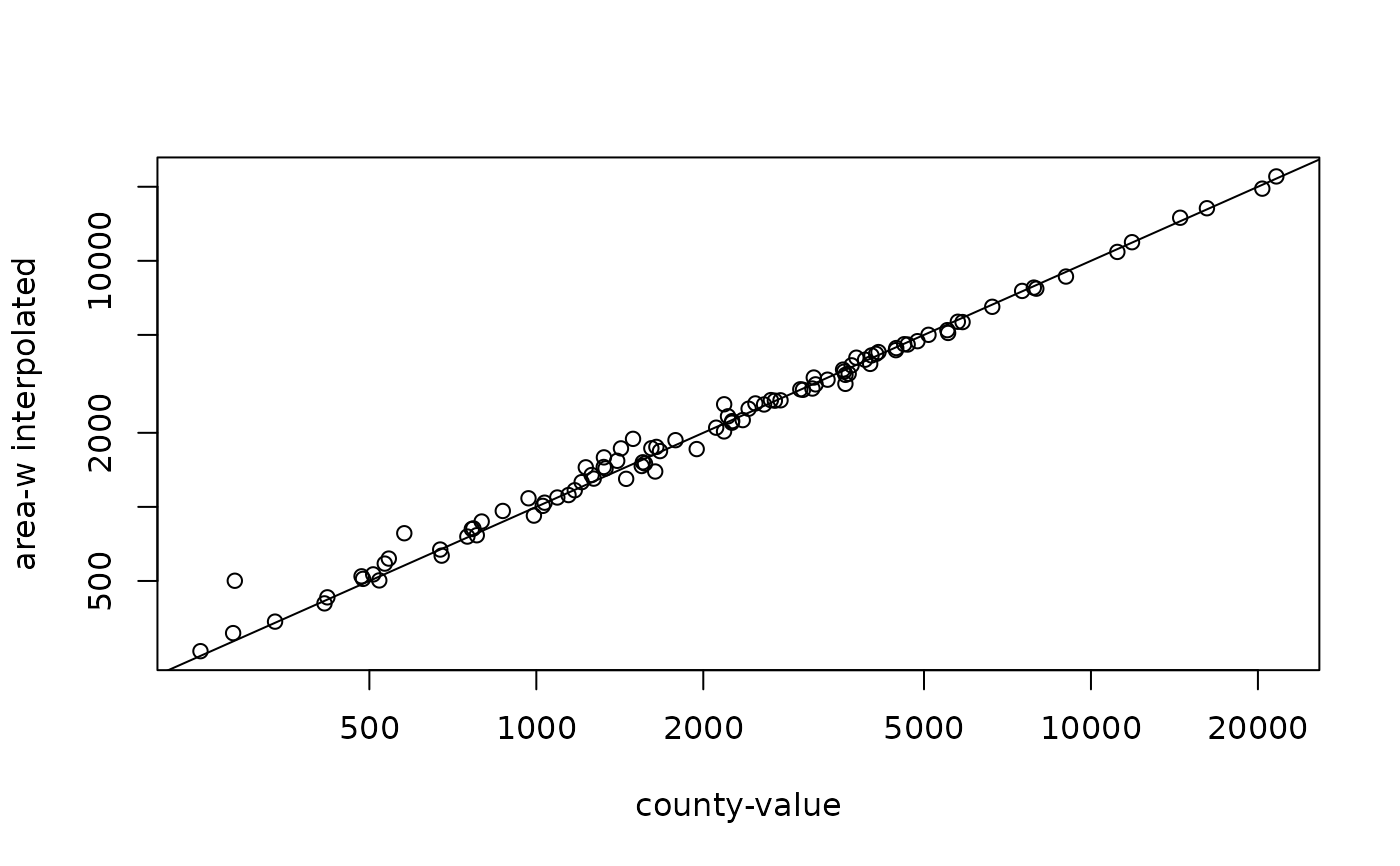
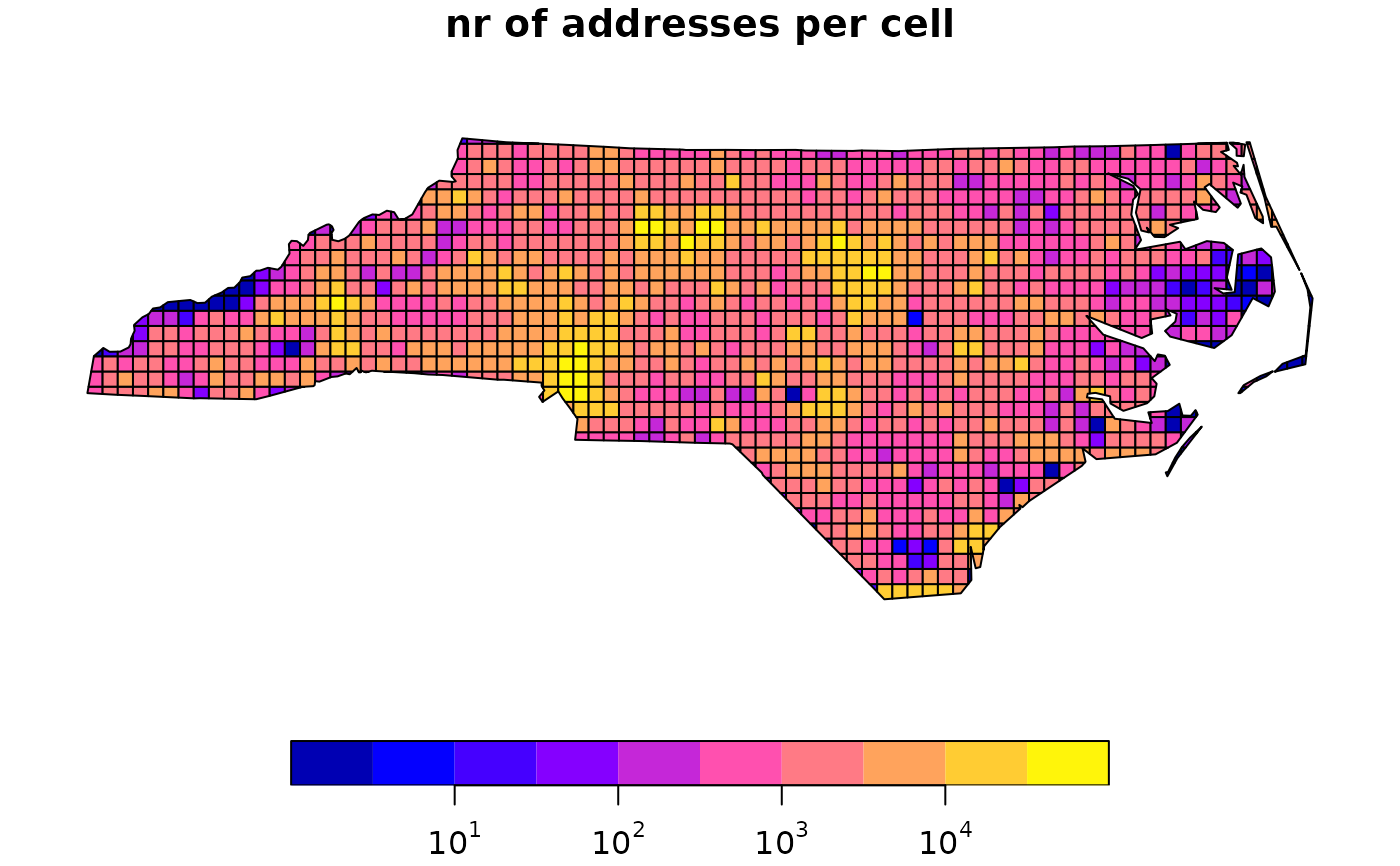
Deploying to gh-pages from @ r-spatial/sf@6a3266f1b46d2cbf7e4272b19c8e42507f74dfdd 🚀

diff --git a/reference/interpolate_aw.html b/reference/interpolate_aw.html
@@ -135,20 +135,25 @@ when <code>FALSE</code> divide by the sum of the source areas.</p></dd>
 <span class="r-in"><span><span class="co"># example Dasymetric mapping:</span></span></span>
 <span class="r-in"><span><span class="co"># load nr of addresses per 10 km grid cell, to proxy population -&gt; birth density:</span></span></span>
 <span class="r-in"><span><span class="va">grd.addr</span> <span class="op">=</span> <span class="fu"><a href="https://rdrr.io/r/base/system.file.html" class="external-link">system.file</a></span><span class="op">(</span><span class="st">"gpkg/grd_addr.gpkg"</span>, package<span class="op">=</span><span class="st">"sf"</span><span class="op">)</span> <span class="op">|&gt;</span> <span class="fu"><a href="st_read.html">read_sf</a></span><span class="op">(</span><span class="op">)</span></span></span>
-<span class="r-in"><span><span class="va">xgrd.addr</span> <span class="op">=</span> <span class="va">grd.addr</span> <span class="co"># copy for plotting</span></span></span>
-<span class="r-in"><span><span class="va">xgrd.addr</span><span class="op">$</span><span class="va">ones</span><span class="op">[</span><span class="va">grd.addr</span><span class="op">$</span><span class="va">ones</span><span class="op">==</span><span class="fl">0</span><span class="op">]</span> <span class="op">=</span> <span class="fl">1</span> <span class="co"># so that logz shows finite values</span></span></span>
-<span class="r-in"><span><span class="fu"><a href="plot.html">plot</a></span><span class="op">(</span><span class="va">xgrd.addr</span>, logz<span class="op">=</span><span class="cn">TRUE</span>, main <span class="op">=</span> <span class="st">"nr of addresses per cell"</span><span class="op">)</span> <span class="co"># log scale</span></span></span>
-<span class="r-plt img"><img src="interpolate_aw-2.png" alt="" width="700" height="433"></span>
 <span class="r-in"><span><span class="va">nc</span> <span class="op">=</span> <span class="fu"><a href="st_transform.html">st_transform</a></span><span class="op">(</span><span class="va">nc</span>, <span class="fu"><a href="st_crs.html">st_crs</a></span><span class="op">(</span><span class="va">grd.addr</span><span class="op">)</span><span class="op">)</span></span></span>
 <span class="r-in"><span><span class="co"># avoid "assumes attributes are constant or uniform over areas" warnings:</span></span></span>
-<span class="r-in"><span><span class="fu"><a href="st_agr.html">st_agr</a></span><span class="op">(</span><span class="va">nc</span><span class="op">)</span> <span class="op">=</span> <span class="fu"><a href="https://rdrr.io/r/base/c.html" class="external-link">c</a></span><span class="op">(</span>BIR74 <span class="op">=</span> <span class="st">"constant"</span>, BIR79 <span class="op">=</span> <span class="st">"constant"</span><span class="op">)</span></span></span>
 <span class="r-in"><span><span class="fu"><a href="st_agr.html">st_agr</a></span><span class="op">(</span><span class="va">grd.addr</span><span class="op">)</span> <span class="op">=</span> <span class="fu"><a href="https://rdrr.io/r/base/c.html" class="external-link">c</a></span><span class="op">(</span>ones <span class="op">=</span> <span class="st">"constant"</span><span class="op">)</span></span></span>
+<span class="r-in"><span><span class="fu"><a href="st_agr.html">st_agr</a></span><span class="op">(</span><span class="va">nc</span><span class="op">)</span> <span class="op">=</span> <span class="fu"><a href="https://rdrr.io/r/base/c.html" class="external-link">c</a></span><span class="op">(</span>BIR74 <span class="op">=</span> <span class="st">"constant"</span>, BIR79 <span class="op">=</span> <span class="st">"constant"</span><span class="op">)</span></span></span>
+<span class="r-in"><span><span class="fu"><a href="plot.html">plot</a></span><span class="op">(</span><span class="va">nc</span><span class="op">[</span><span class="st">"BIR74"</span><span class="op">]</span>, logz <span class="op">=</span> <span class="cn">TRUE</span>, main <span class="op">=</span> <span class="st">"county birth counts, 1974-"</span><span class="op">)</span></span></span>
+<span class="r-plt img"><img src="interpolate_aw-2.png" alt="" width="700" height="433"></span>
+<span class="r-in"><span><span class="va">bir0.grd</span> <span class="op">=</span> <span class="fu">st_interpolate_aw</span><span class="op">(</span><span class="va">nc</span><span class="op">[</span><span class="fu"><a href="https://rdrr.io/r/base/c.html" class="external-link">c</a></span><span class="op">(</span><span class="st">"BIR74"</span>,<span class="st">"BIR79"</span><span class="op">)</span><span class="op">]</span>, extensive <span class="op">=</span> <span class="cn">TRUE</span>, <span class="va">grd.addr</span><span class="op">)</span></span></span>
+<span class="r-in"><span><span class="fu"><a href="plot.html">plot</a></span><span class="op">(</span><span class="va">bir0.grd</span><span class="op">[</span><span class="st">"BIR74"</span><span class="op">]</span>, logz <span class="op">=</span> <span class="cn">TRUE</span>, main <span class="op">=</span> <span class="st">"area-weighted birth counts, 1974-"</span><span class="op">)</span></span></span>
+<span class="r-plt img"><img src="interpolate_aw-3.png" alt="" width="700" height="433"></span>
+<span class="r-in"><span><span class="va">xgrd.addr</span> <span class="op">=</span> <span class="va">grd.addr</span> <span class="co"># copy for plotting</span></span></span>
+<span class="r-in"><span><span class="va">xgrd.addr</span><span class="op">$</span><span class="va">ones</span><span class="op">[</span><span class="va">grd.addr</span><span class="op">$</span><span class="va">ones</span><span class="op">==</span><span class="fl">0</span><span class="op">]</span> <span class="op">=</span> <span class="fl">1</span> <span class="co"># so that logz shows finite values</span></span></span>
+<span class="r-in"><span><span class="fu"><a href="plot.html">plot</a></span><span class="op">(</span><span class="va">xgrd.addr</span>, logz <span class="op">=</span> <span class="cn">TRUE</span>, main <span class="op">=</span> <span class="st">"nr of addresses per cell"</span><span class="op">)</span> <span class="co"># log scale</span></span></span>
+<span class="r-plt img"><img src="interpolate_aw-4.png" alt="" width="700" height="433"></span>
 <span class="r-in"><span><span class="co"># dasymetric mapping</span></span></span>
 <span class="r-in"><span><span class="va">bir.grd</span> <span class="op">=</span> <span class="fu">st_interpolate_aw</span><span class="op">(</span><span class="va">nc</span><span class="op">[</span><span class="fu"><a href="https://rdrr.io/r/base/c.html" class="external-link">c</a></span><span class="op">(</span><span class="st">"BIR74"</span>,<span class="st">"BIR79"</span><span class="op">)</span><span class="op">]</span>, extensive <span class="op">=</span> <span class="cn">TRUE</span>, <span class="va">grd.addr</span>, weights <span class="op">=</span> <span class="st">"ones"</span><span class="op">)</span></span></span>
 <span class="r-in"><span><span class="va">xbir.grd</span> <span class="op">=</span> <span class="va">bir.grd</span> <span class="co"># copy for plotting</span></span></span>
 <span class="r-in"><span><span class="va">xbir.grd</span><span class="op">$</span><span class="va">BIR74</span><span class="op">[</span><span class="va">xbir.grd</span><span class="op">$</span><span class="va">BIR74</span> <span class="op">==</span> <span class="fl">0</span><span class="op">]</span> <span class="op">=</span> <span class="fl">1</span> <span class="co"># so that logz shows finite values</span></span></span>
-<span class="r-in"><span><span class="fu"><a href="plot.html">plot</a></span><span class="op">(</span><span class="va">xbir.grd</span><span class="op">[</span><span class="st">"BIR74"</span><span class="op">]</span>, logz <span class="op">=</span> <span class="cn">TRUE</span>, main <span class="op">=</span> <span class="st">"redistributed birth counts, 1974-"</span><span class="op">)</span></span></span>
-<span class="r-plt img"><img src="interpolate_aw-3.png" alt="" width="700" height="433"></span>
+<span class="r-in"><span><span class="fu"><a href="plot.html">plot</a></span><span class="op">(</span><span class="va">xbir.grd</span><span class="op">[</span><span class="st">"BIR74"</span><span class="op">]</span>, logz <span class="op">=</span> <span class="cn">TRUE</span>, main <span class="op">=</span> <span class="st">"dasym. redistributed birth counts, 1974-"</span><span class="op">)</span></span></span>
+<span class="r-plt img"><img src="interpolate_aw-5.png" alt="" width="700" height="433"></span>
 <span class="r-in"><span><span class="co"># verify sums:</span></span></span>
 <span class="r-in"><span><span class="fu"><a href="https://rdrr.io/r/base/apply.html" class="external-link">apply</a></span><span class="op">(</span><span class="fu"><a href="https://rdrr.io/r/base/as.data.frame.html" class="external-link">as.data.frame</a></span><span class="op">(</span><span class="va">bir.grd</span><span class="op">)</span><span class="op">[</span><span class="fl">1</span><span class="op">:</span><span class="fl">2</span><span class="op">]</span>, <span class="fl">2</span>, <span class="va">sum</span><span class="op">)</span></span></span>
 <span class="r-out co"><span class="r-pr">#&gt;</span>  BIR74  BIR79 </span>
@@ -161,7 +166,7 @@ when <code>FALSE</code> divide by the sum of the source areas.</p></dd>
 <span class="r-in"><span><span class="va">aw</span> <span class="op">=</span> <span class="fu">st_interpolate_aw</span><span class="op">(</span><span class="va">bir.grd</span><span class="op">[</span><span class="st">"BIR74"</span><span class="op">]</span>, <span class="fu"><a href="st_geometry.html">st_geometry</a></span><span class="op">(</span><span class="va">nc</span><span class="op">)</span>, extensive <span class="op">=</span> <span class="cn">TRUE</span><span class="op">)</span></span></span>
 <span class="r-in"><span><span class="fu"><a href="plot.html">plot</a></span><span class="op">(</span><span class="va">nc</span><span class="op">$</span><span class="va">BIR74</span>, <span class="va">aw</span><span class="op">$</span><span class="va">BIR74</span>, log <span class="op">=</span> <span class="st">'xy'</span>, xlab <span class="op">=</span> <span class="st">'county-value'</span>, ylab <span class="op">=</span> <span class="st">'area-w interpolated'</span><span class="op">)</span></span></span>
 <span class="r-in"><span><span class="fu"><a href="https://rdrr.io/r/graphics/abline.html" class="external-link">abline</a></span><span class="op">(</span><span class="fl">0</span>,<span class="fl">1</span><span class="op">)</span></span></span>
-<span class="r-plt img"><img src="interpolate_aw-4.png" alt="" width="700" height="433"></span>
+<span class="r-plt img"><img src="interpolate_aw-6.png" alt="" width="700" height="433"></span>
 </code></pre></div>
     </div>
   </main><aside class="col-md-3"><nav id="toc" aria-label="Table of contents"><h2>On this page</h2>

diff --git a/reference/st_write.html b/reference/st_write.html
@@ -202,12 +202,12 @@ omitted; it returns <code>TRUE</code> on success, <code>FALSE</code> on failure,
 <span class="r-out co"><span class="r-pr">#&gt;</span> Geodetic CRS:  NAD27</span>
 <span class="r-in"><span><span class="fu">st_write</span><span class="op">(</span><span class="va">nc</span>, <span class="fu"><a href="https://rdrr.io/r/base/paste.html" class="external-link">paste0</a></span><span class="op">(</span><span class="fu"><a href="https://rdrr.io/r/base/tempfile.html" class="external-link">tempdir</a></span><span class="op">(</span><span class="op">)</span>, <span class="st">"/"</span>, <span class="st">"nc.shp"</span><span class="op">)</span><span class="op">)</span></span></span>
 <span class="r-out co"><span class="r-pr">#&gt;</span> Writing layer `nc' to data source </span>
-<span class="r-out co"><span class="r-pr">#&gt;</span>   `/tmp/Rtmp5usXxZ/nc.shp' using driver `ESRI Shapefile'</span>
+<span class="r-out co"><span class="r-pr">#&gt;</span>   `/tmp/RtmpDHbqZ8/nc.shp' using driver `ESRI Shapefile'</span>
 <span class="r-out co"><span class="r-pr">#&gt;</span> Writing 100 features with 14 fields and geometry type Multi Polygon.</span>
 <span class="r-in"><span><span class="fu">st_write</span><span class="op">(</span><span class="va">nc</span>, <span class="fu"><a href="https://rdrr.io/r/base/paste.html" class="external-link">paste0</a></span><span class="op">(</span><span class="fu"><a href="https://rdrr.io/r/base/tempfile.html" class="external-link">tempdir</a></span><span class="op">(</span><span class="op">)</span>, <span class="st">"/"</span>, <span class="st">"nc.shp"</span><span class="op">)</span>, delete_layer <span class="op">=</span> <span class="cn">TRUE</span><span class="op">)</span> <span class="co"># overwrites</span></span></span>
 <span class="r-out co"><span class="r-pr">#&gt;</span> Deleting layer `nc' using driver `ESRI Shapefile'</span>
 <span class="r-out co"><span class="r-pr">#&gt;</span> Writing layer `nc' to data source </span>
-<span class="r-out co"><span class="r-pr">#&gt;</span>   `/tmp/Rtmp5usXxZ/nc.shp' using driver `ESRI Shapefile'</span>
+<span class="r-out co"><span class="r-pr">#&gt;</span>   `/tmp/RtmpDHbqZ8/nc.shp' using driver `ESRI Shapefile'</span>
 <span class="r-out co"><span class="r-pr">#&gt;</span> Writing 100 features with 14 fields and geometry type Multi Polygon.</span>
 <span class="r-in"><span><span class="kw">if</span> <span class="op">(</span><span class="kw"><a href="https://rdrr.io/r/base/library.html" class="external-link">require</a></span><span class="op">(</span><span class="va"><a href="https://github.com/edzer/sp/" class="external-link">sp</a></span>, quietly <span class="op">=</span> <span class="cn">TRUE</span><span class="op">)</span><span class="op">)</span> <span class="op">{</span></span></span>
 <span class="r-in"><span> <span class="fu"><a href="https://rdrr.io/r/utils/data.html" class="external-link">data</a></span><span class="op">(</span><span class="va">meuse</span>, package <span class="op">=</span> <span class="st">"sp"</span><span class="op">)</span> <span class="co"># loads data.frame from sp</span></span></span>
@@ -225,11 +225,11 @@ omitted; it returns <code>TRUE</code> on success, <code>FALSE</code> on failure,
 <span class="r-in"><span> <span class="kw"><a href="https://rdrr.io/r/base/try.html" class="external-link">try</a></span><span class="op">(</span><span class="fu">st_write</span><span class="op">(</span><span class="va">nc</span>, <span class="st">"PG:dbname=postgis"</span>, <span class="st">"sids"</span>, layer_options <span class="op">=</span> <span class="st">"OVERWRITE=true"</span><span class="op">)</span><span class="op">)</span></span></span>
 <span class="r-in"><span><span class="op">}</span> <span class="co"># }</span></span></span>
 <span class="r-in"><span><span class="op">}</span></span></span>
-<span class="r-out co"><span class="r-pr">#&gt;</span> Writing layer `meuse' to data source `/tmp/Rtmp5usXxZ/meuse.csv' using driver `CSV'</span>
+<span class="r-out co"><span class="r-pr">#&gt;</span> Writing layer `meuse' to data source `/tmp/RtmpDHbqZ8/meuse.csv' using driver `CSV'</span>
 <span class="r-out co"><span class="r-pr">#&gt;</span> options:        GEOMETRY=AS_XY </span>
 <span class="r-out co"><span class="r-pr">#&gt;</span> Writing 155 features with 12 fields and geometry type Point.</span>
-<span class="r-out co"><span class="r-pr">#&gt;</span> Deleting source `/tmp/Rtmp5usXxZ/meuse.csv' using driver `CSV'</span>
-<span class="r-out co"><span class="r-pr">#&gt;</span> Writing layer `meuse' to data source `/tmp/Rtmp5usXxZ/meuse.csv' using driver `CSV'</span>
+<span class="r-out co"><span class="r-pr">#&gt;</span> Deleting source `/tmp/RtmpDHbqZ8/meuse.csv' using driver `CSV'</span>
+<span class="r-out co"><span class="r-pr">#&gt;</span> Writing layer `meuse' to data source `/tmp/RtmpDHbqZ8/meuse.csv' using driver `CSV'</span>
 <span class="r-out co"><span class="r-pr">#&gt;</span> options:        GEOMETRY=AS_WKT </span>
 <span class="r-out co"><span class="r-pr">#&gt;</span> Writing 155 features with 12 fields and geometry type Point.</span>
 </code></pre></div>

diff --git a/articles/sf7.html b/articles/sf7.html
@@ -494,26 +494,26 @@ comparison with transforming and then creating buffers:</p>
 <span>  <span class="va">uk_buffer_sf</span> <span class="op">=</span> <span class="fu"><a href="../reference/geos_unary.html">st_buffer</a></span><span class="op">(</span><span class="va">uk_projected</span>, dist <span class="op">=</span> <span class="fl">20000</span><span class="op">)</span></span>
 <span><span class="op">}</span><span class="op">)</span></span>
 <span><span class="co">##    user  system elapsed </span></span>
-<span><span class="co">##   0.027   0.001   0.028</span></span>
+<span><span class="co">##   0.027   0.000   0.028</span></span>
 <span><span class="co"># sf way with few than the 30 segments in the buffer</span></span>
 <span><span class="fu"><a href="https://rdrr.io/r/base/system.time.html" class="external-link">system.time</a></span><span class="op">(</span><span class="op">{</span></span>
 <span>  <span class="va">uk_projected</span> <span class="op">=</span> <span class="fu"><a href="../reference/st_transform.html">st_transform</a></span><span class="op">(</span><span class="va">uk_sfc</span>, <span class="fl">27700</span><span class="op">)</span></span>
 <span>  <span class="va">uk_buffer_sf2</span> <span class="op">=</span> <span class="fu"><a href="../reference/geos_unary.html">st_buffer</a></span><span class="op">(</span><span class="va">uk_projected</span>, dist <span class="op">=</span> <span class="fl">20000</span>, nQuadSegs <span class="op">=</span> <span class="fl">4</span><span class="op">)</span></span>
 <span><span class="op">}</span><span class="op">)</span></span>
 <span><span class="co">##    user  system elapsed </span></span>
-<span><span class="co">##   0.007   0.001   0.008</span></span>
+<span><span class="co">##   0.008   0.000   0.007</span></span>
 <span><span class="co"># s2 with default cell size</span></span>
 <span><span class="fu"><a href="https://rdrr.io/r/base/system.time.html" class="external-link">system.time</a></span><span class="op">(</span><span class="op">{</span></span>
 <span>  <span class="va">uk_buffer</span> <span class="op">=</span> <span class="fu"><a href="https://r-spatial.github.io/s2/reference/s2_boundary.html" class="external-link">s2_buffer_cells</a></span><span class="op">(</span><span class="va">uk</span>, distance <span class="op">=</span> <span class="fl">20000</span><span class="op">)</span></span>
 <span><span class="op">}</span><span class="op">)</span></span>
 <span><span class="co">##    user  system elapsed </span></span>
-<span><span class="co">##   0.024   0.000   0.025</span></span>
+<span><span class="co">##   0.025   0.000   0.024</span></span>
 <span><span class="co"># s2 with 10000 cells</span></span>
 <span><span class="fu"><a href="https://rdrr.io/r/base/system.time.html" class="external-link">system.time</a></span><span class="op">(</span><span class="op">{</span></span>
 <span>  <span class="va">uk_buffer2</span> <span class="op">=</span> <span class="fu"><a href="https://r-spatial.github.io/s2/reference/s2_boundary.html" class="external-link">s2_buffer_cells</a></span><span class="op">(</span><span class="va">uk</span>, distance <span class="op">=</span> <span class="fl">20000</span>, max_cells <span class="op">=</span> <span class="fl">10000</span><span class="op">)</span></span>
 <span><span class="op">}</span><span class="op">)</span></span>
 <span><span class="co">##    user  system elapsed </span></span>
-<span><span class="co">##   0.226   0.000   0.226</span></span>
+<span><span class="co">##   0.225   0.000   0.225</span></span>
 <span><span class="co"># s2 with 100 cells</span></span>
 <span><span class="fu"><a href="https://rdrr.io/r/base/system.time.html" class="external-link">system.time</a></span><span class="op">(</span><span class="op">{</span></span>
 <span>  <span class="va">uk_buffer2</span> <span class="op">=</span> <span class="fu"><a href="https://r-spatial.github.io/s2/reference/s2_boundary.html" class="external-link">s2_buffer_cells</a></span><span class="op">(</span><span class="va">uk</span>, distance <span class="op">=</span> <span class="fl">20000</span>, max_cells <span class="op">=</span> <span class="fl">100</span><span class="op">)</span></span>

diff --git a/reference/gdal_utils.html b/reference/gdal_utils.html
@@ -220,7 +220,7 @@
 <span class="r-out co"><span class="r-pr">#&gt;</span> Band 1 Block=20x20 Type=Byte, ColorInterp=Gray</span>
 <span class="r-out co"><span class="r-pr">#&gt;</span>     Computed Min/Max=74.000,255.000</span>
 <span class="r-out co"><span class="r-pr">#&gt;</span> Reading layer `storms_xyz' from data source </span>
-<span class="r-out co"><span class="r-pr">#&gt;</span>   `/tmp/Rtmp5usXxZ/file20951c2eb709.gpkg' using driver `GPKG'</span>
+<span class="r-out co"><span class="r-pr">#&gt;</span>   `/tmp/RtmpDHbqZ8/file2153516f5a45.gpkg' using driver `GPKG'</span>
 <span class="r-out co"><span class="r-pr">#&gt;</span> Simple feature collection with 71 features and 0 fields</span>
 <span class="r-out co"><span class="r-pr">#&gt;</span> Geometry type: LINESTRING</span>
 <span class="r-out co"><span class="r-pr">#&gt;</span> Dimension:     XYZ</span>

diff --git a/reference/interpolate_aw.md b/reference/interpolate_aw.md
@@ -100,19 +100,24 @@ plot(a1[c("intensive", "extensive")], key.pos = 4)
 # example Dasymetric mapping:
 # load nr of addresses per 10 km grid cell, to proxy population -> birth density:
 grd.addr = system.file("gpkg/grd_addr.gpkg", package="sf") |> read_sf()
-xgrd.addr = grd.addr # copy for plotting
-xgrd.addr$ones[grd.addr$ones==0] = 1 # so that logz shows finite values
-plot(xgrd.addr, logz=TRUE, main = "nr of addresses per cell") # log scale
-
 nc = st_transform(nc, st_crs(grd.addr))
 # avoid "assumes attributes are constant or uniform over areas" warnings:
-st_agr(nc) = c(BIR74 = "constant", BIR79 = "constant")
 st_agr(grd.addr) = c(ones = "constant")
+st_agr(nc) = c(BIR74 = "constant", BIR79 = "constant")
+plot(nc["BIR74"], logz = TRUE, main = "county birth counts, 1974-")
+
+bir0.grd = st_interpolate_aw(nc[c("BIR74","BIR79")], extensive = TRUE, grd.addr)
+plot(bir0.grd["BIR74"], logz = TRUE, main = "area-weighted birth counts, 1974-")
+
+xgrd.addr = grd.addr # copy for plotting
+xgrd.addr$ones[grd.addr$ones==0] = 1 # so that logz shows finite values
+plot(xgrd.addr, logz = TRUE, main = "nr of addresses per cell") # log scale
+
 # dasymetric mapping
 bir.grd = st_interpolate_aw(nc[c("BIR74","BIR79")], extensive = TRUE, grd.addr, weights = "ones")
 xbir.grd = bir.grd # copy for plotting
 xbir.grd$BIR74[xbir.grd$BIR74 == 0] = 1 # so that logz shows finite values
-plot(xbir.grd["BIR74"], logz = TRUE, main = "redistributed birth counts, 1974-")
+plot(xbir.grd["BIR74"], logz = TRUE, main = "dasym. redistributed birth counts, 1974-")
 
 # verify sums:
 apply(as.data.frame(bir.grd)[1:2], 2, sum)

diff --git a/reference/st_write.md b/reference/st_write.md
@@ -162,12 +162,12 @@ nc = st_read(system.file("shape/nc.shp", package="sf"))
 #> Geodetic CRS:  NAD27
 st_write(nc, paste0(tempdir(), "/", "nc.shp"))
 #> Writing layer `nc' to data source 
-#>   `/tmp/Rtmp5usXxZ/nc.shp' using driver `ESRI Shapefile'
+#>   `/tmp/RtmpDHbqZ8/nc.shp' using driver `ESRI Shapefile'
 #> Writing 100 features with 14 fields and geometry type Multi Polygon.
 st_write(nc, paste0(tempdir(), "/", "nc.shp"), delete_layer = TRUE) # overwrites
 #> Deleting layer `nc' using driver `ESRI Shapefile'
 #> Writing layer `nc' to data source 
-#>   `/tmp/Rtmp5usXxZ/nc.shp' using driver `ESRI Shapefile'
+#>   `/tmp/RtmpDHbqZ8/nc.shp' using driver `ESRI Shapefile'
 #> Writing 100 features with 14 fields and geometry type Multi Polygon.
 if (require(sp, quietly = TRUE)) {
  data(meuse, package = "sp") # loads data.frame from sp
@@ -185,11 +185,11 @@ if (FALSE) { # \dontrun{
  try(st_write(nc, "PG:dbname=postgis", "sids", layer_options = "OVERWRITE=true"))
 } # }
 }
-#> Writing layer `meuse' to data source `/tmp/Rtmp5usXxZ/meuse.csv' using driver `CSV'
+#> Writing layer `meuse' to data source `/tmp/RtmpDHbqZ8/meuse.csv' using driver `CSV'
 #> options:        GEOMETRY=AS_XY 
 #> Writing 155 features with 12 fields and geometry type Point.
-#> Deleting source `/tmp/Rtmp5usXxZ/meuse.csv' using driver `CSV'
-#> Writing layer `meuse' to data source `/tmp/Rtmp5usXxZ/meuse.csv' using driver `CSV'
+#> Deleting source `/tmp/RtmpDHbqZ8/meuse.csv' using driver `CSV'
+#> Writing layer `meuse' to data source `/tmp/RtmpDHbqZ8/meuse.csv' using driver `CSV'
 #> options:        GEOMETRY=AS_WKT 
 #> Writing 155 features with 12 fields and geometry type Point.
 ```

diff --git a/articles/sf7.md b/articles/sf7.md
@@ -468,26 +468,26 @@ system.time({
   uk_buffer_sf = st_buffer(uk_projected, dist = 20000)
 })
 ##    user  system elapsed 
-##   0.027   0.001   0.028
+##   0.027   0.000   0.028
 # sf way with few than the 30 segments in the buffer
 system.time({
   uk_projected = st_transform(uk_sfc, 27700)
   uk_buffer_sf2 = st_buffer(uk_projected, dist = 20000, nQuadSegs = 4)
 })
 ##    user  system elapsed 
-##   0.007   0.001   0.008
+##   0.008   0.000   0.007
 # s2 with default cell size
 system.time({
   uk_buffer = s2_buffer_cells(uk, distance = 20000)
 })
 ##    user  system elapsed 
-##   0.024   0.000   0.025
+##   0.025   0.000   0.024
 # s2 with 10000 cells
 system.time({
   uk_buffer2 = s2_buffer_cells(uk, distance = 20000, max_cells = 10000)
 })
 ##    user  system elapsed 
-##   0.226   0.000   0.226
+##   0.225   0.000   0.225
 # s2 with 100 cells
 system.time({
   uk_buffer2 = s2_buffer_cells(uk, distance = 20000, max_cells = 100)

diff --git a/reference/gdal_utils.md b/reference/gdal_utils.md
@@ -188,7 +188,7 @@ st_read(in_file)
 #> Band 1 Block=20x20 Type=Byte, ColorInterp=Gray
 #>     Computed Min/Max=74.000,255.000
 #> Reading layer `storms_xyz' from data source 
-#>   `/tmp/Rtmp5usXxZ/file20951c2eb709.gpkg' using driver `GPKG'
+#>   `/tmp/RtmpDHbqZ8/file2153516f5a45.gpkg' using driver `GPKG'
 #> Simple feature collection with 71 features and 0 fields
 #> Geometry type: LINESTRING
 #> Dimension:     XYZ